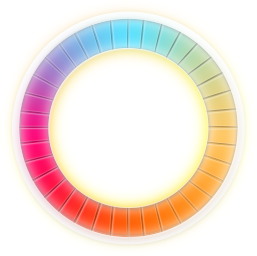
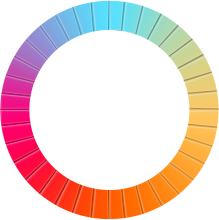
modify all

diff --git a/asp/css/style.css b/asp/css/style.css
@@ -1,7 +1,7 @@
 /* 第一页 */
 body{overflow: hidden;margin: 0;padding: 0;}
-.index_container{position:absolute; width:100%; height:100%; z-index:-1}
-.img_bg1{position:fixed;width: 100%;height: 100%;}
+.index_container{position:absolute; width:100%; height:100%; z-index:-1;overflow: hidden;}
+.img_bg1{position:absolute;width: 100%;height: 100%;}
 .people_box{position:absolute;top: 615px;left: 20px;width:669px;height:301px;background:url(../images/people.png) no-repeat center;
 	-webkit-animation:fadeInLeftPeople 3s ease both;}
 	@-webkit-keyframes fadeInLeftPeople{
@@ -15,17 +15,7 @@ body{overflow: hidden;margin: 0;padding: 0;}
 	-webkit-transform:translateX(-600px)}
 	100%{opacity:1;
 	-webkit-transform:translateX(0)}}
-.start{position: absolute;top: 925px;left:285px; border:1px solid #fff; border-radius:50%; text-align:center; cursor:pointer; box-shadow:0 10px 20px rgba(0,0,0,0); background-image: -webkit-gradient(linear, left top, left bottom, from(#6cc3fe), to(#fff));
-    -webkit-animation-timing-function: ease-in-out;
-    -webkit-animation-name: breathe;
-    -webkit-animation-duration: 2700ms;
-    -webkit-animation-iteration-count: infinite;
-    -webkit-animation-direction: alternate;
-}
-@-webkit-keyframes breathe {
-    0% { opacity: .2; box-shadow:0 1px 2px rgba(59,235,235,1);}
-    100% { opacity: 1; border:1px solid rgba(59,235,235,255); box-shadow:0px 0px 30px 5px rgba(255,235,235,255);}
-}
+.start{position: absolute;top: 900px;left:285px;}
 /* 第二页 */
 .secound_container{position:absolute; width:100%; height:100%; z-index:-1}
 .img_bg2{position:fixed;width: 100%;height: 100%;}
@@ -39,10 +29,10 @@ body{overflow: hidden;margin: 0;padding: 0;}
 .circleBtn{position: absolute;left:183px;top:332px;/* position: relative; */background: transparent;height: 578px;width: 368px;margin:220px auto;/* border-bottom-right-radius: 200px;border-bottom-left-radius: 200px;border-bottom: 5px dashed #fff;border-left:5px dashed #fff; */}
 .line_before{position: absolute;left:-2px;top:16px;height: 100%;width: 100%}
 .outer_circle{position: relative;}
-.rotate{position: absolute;top:213px;width: 368px;height: 368px}
+.rotate{position: absolute;top:242px;width: 368px;height: 368px;left: -5px;}
 .rotate .outer_circle{position: absolute;left: 20px}
-.color_circle{position: absolute;left:60px;top:49px;}
-.rotate .click{position: absolute;left:104px;top:91px;}
+.color_circle{position: absolute;left:81px;top:62px;}
+.rotate .click{position: absolute;left:107px;top:90px;}
 .elect{display: block;height: 20px;width:8px;background:#f39b00;position: absolute;right: -10px;top:50%;margin-top: -10px;opacity: 0;}
 .icon-play {
   -moz-animation: spin 2s infinite linear;
@@ -94,7 +84,7 @@ body{overflow: hidden;margin: 0;padding: 0;}
 /* 电池充电 */
 .battery_box{position: absolute;left:123px;top:300px;}
 .electric_box{position: absolute;left:10px;top:33px;}
-.electric_box span{display: block;width:112px;height:15px;margin: 5px auto;border:1px solid #fff; border-radius:5px; text-align:center; cursor:pointer; box-shadow:0 10px 20px rgba(0,0,0,0); background:#f39b00);
+.electric_box span{display: block;width:112px;height:15px;margin: 5px auto;border:1px solid #fff; border-radius:5px; text-align:center; cursor:pointer; background:#f39b00);
 /*    -webkit-animation-timing-function: ease-in-out;
     -webkit-animation-name: twinkle;
     -webkit-animation-duration: 1000ms;
@@ -116,15 +106,4 @@ body{overflow: hidden;margin: 0;padding: 0;}
 .city {width: 100%; position: fixed; bottom: 50px;z-index: 100;}
 .city img { width: 100%;}
 #cas { width: 100%;}
-.twinkleName{
-    -webkit-animation-timing-function: ease-in-out;
-    -webkit-animation-name: twinkle;
-    -webkit-animation-duration: 1000ms;
-    -webkit-animation-iteration-count: infinite;
-    -webkit-animation-direction: alternate;
-}
-@-webkit-keyframes twinkle {
-    0% { opacity: .2; box-shadow:0 1px 2px #f39b00;}
-    50% { opacity: 1; box-shadow:0px 0px 10px 5px #f2c99a;}
-    100% { opacity: .2; box-shadow:0 1px 2px #f39b00;}
-}
+.twinkleName{box-shadow:0px 0px 10px 5px #f2c99a;}

diff --git a/asp/third.html b/asp/third.html
@@ -13,7 +13,13 @@
 
 </style>
 </head>
-<body style="background:#070d33;"> 
+<body>
+
+<div class="index_container" id="bg3_click">
+<img src="images/company_theme.png" alt="" style="position:absolute;top:15px;left:10px;z-index:10000;width:100%;border:0;">
+    <img id='obj' class="img_bg1" src ="images/bg3.jpg" border ='0' />
+
+</div> 
 <script language =javascript >
  var curIndex=0;
  //时间间隔 单位毫秒
@@ -36,8 +42,9 @@ function changeImg()
     obj.src=arr[curIndex];
 }
 </script>
-
-<img id=obj src ="images/bg3.jpg" border =0 />
+<script>
+      window.ontouchstart = function(e) { e.preventDefault(); };
+</script>
 <script type="text/javascript" src="js/MetaHandler.js"></script>
 </body>
 </html>
